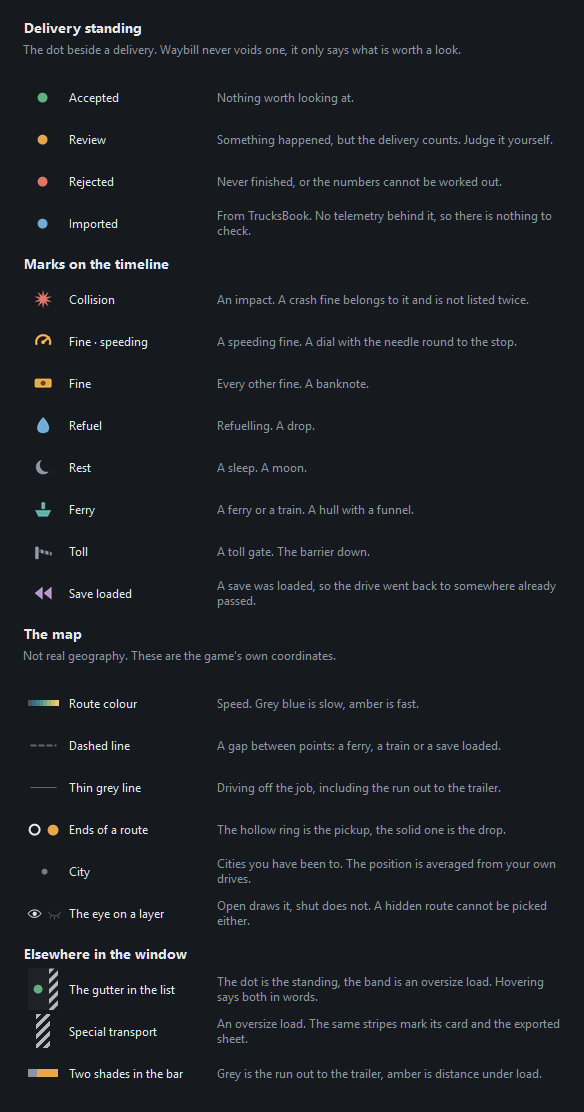
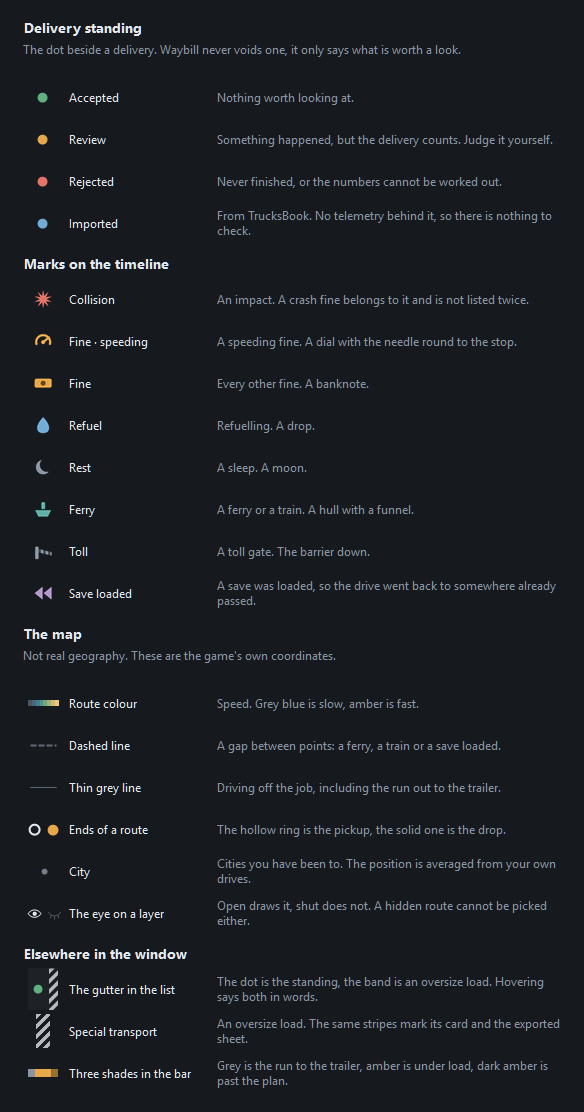
Write up the one page and retake what it changed
The README described five pages and an overview that no longer exists. It
describes four now, opening on the drive in progress, with the turning of the map
and the bar that rescales past the plan.

The screenshots go with it. `overview.png` is gone, `current-job.png` is the
merged page waiting for a game, which is the half of it that can be photographed
with the game closed. The other half gets photographed the next time there is a
delivery to photograph.

Changed region(s): [[0.3699, 0.9478, 0.9247, 0.9784], [0.1233, 0.9478, 0.3082, 0.9784]]

diff --git a/README.md b/README.md
@@ -69,7 +69,7 @@ Every state, flag and anomaly is listed with its meaning in
 
 ## Features
 
-* Opens on an overview: the drive in progress, the last few deliveries, settings
+* Opens on the drive in progress: the figures, the log, and the route as it grows
 * Detects the start and the end of a job with no manual input
 * Measures distance, fuel, speed, damage, fines, tolls and ferries
 * Records an event timeline, so the exact moment of a fine or a collision is kept
@@ -131,22 +131,30 @@ live in `%LOCALAPPDATA%\Waybill\`, independent of where the exe sits.
 Start order does not matter, the app connects to the game as soon as it finds it.
 Jobs are detected and saved without any input.
 
-Five pages down the left.
+Four pages down the left.
 
-*Overview* is where the window opens, and it is the only page that answers "what
-is going on" rather than a question you have to arrive with. It holds the drive
-in progress with its route drawn beside it as it goes, the last five deliveries,
-each opening its own card, and the three settings anybody actually reaches for.
-Nothing on it is new: everything has a page of its own, one click away, and the
-tracker's log stays on *Current job* where it belongs.
+*Current job* is where the window opens, and it is the only page that answers
+"what is going on" rather than a question you have to arrive with. The figures
+are on the left, the tracker's own log beside them, and the drive draws itself
+underneath as it goes. With no game running it offers the two things worth
+offering: starting one of the games, and the log that says whether the tracker
+can see it.
 
-![The page the window opens on](assets/overview.png)
+![The page the window opens on](assets/current-job.png)
 
-The miniature is the drive so far and nothing else: the hollow ring is where the
-load went on, the line is coloured by speed like every other route here, and the
-filled marker is where the truck is now. The bar underneath counts the loaded leg
-against the game's own planned distance, with the run out to the trailer in its
-own quieter shade at the head of it and named beside the figure.
+The map is the drive so far and nothing else: the hollow ring is where the load
+went on, the line is coloured by speed like every other route here, and the
+filled marker is where the truck is now. It turns the drive to lie along the
+panel, which is far wider than it is tall, so a run from north to south fills the
+width instead of drawing a thread down the middle. There is no north to lose:
+this is the game's own space and it was never oriented to anything, and the shape
+and the angles within the route are untouched.
+
+The bar underneath counts the loaded leg against the game's own planned distance,
+with the run out to the trailer in its own quieter shade at the head of it. It is
+not clamped at the plan. Going past it is ordinary, a detour or a closed road, so
+the bar rescales rather than filling up and stopping: at 112 % the plan sits nine
+tenths of the way along and the overshoot is what is left, in a dimmer amber.
 
 *Deliveries* is the history. Every row carries its verdict as a dot in the
 gutter on the left, and an oversize load carries hazard stripes beside it;
@@ -161,14 +169,6 @@ history is actually read with, and each is one click away from either answer.
 There is no filter by verdict: it is a dot on every row already, and on a
 history where almost everything is accepted, asking for "only the accepted ones"
 is asking for the list you are looking at.
-
-*Current job* is the same drive in the tracker's own terms: the route, the cargo,
-how far along the drive is, and a log of what has happened, each entry with its
-figure, so a fine reads `Fine: 700 $ (crash)` rather than just `Fined`. The log is
-the tracker narrating itself, which is what you want when the question is whether
-it is seeing the game at all, and is exactly what the overview leaves out.
-
-![The tracker's own view of the same drive](assets/current-job.png)
 
 Double clicking a delivery, or pressing Enter on it, opens its own card. It starts
 with why it got the verdict it did, then every figure the tracker kept.

diff --git a/assets/README.md b/assets/README.md
@@ -4,8 +4,7 @@
 |---|---|
 | `logo.png` | Full resolution logo (700x700). Source for the application icon. |
 | `logo.psd` | Layered source file for editing the logo. |
-| `overview.png` | The page the window opens on, during a delivery. |
-| `current-job.png` | The tracker's own view of the same drive, log and all. |
+| `current-job.png` | The page the window opens on, waiting for a game. |
 | `deliveries.png` | The delivery history, used at the top of the README. |
 | `delivery-card.png` | One delivery on its own card. |
 | `delivery-route.png` | The same card with the route, the height profile and the timeline slid out. |
@@ -34,12 +33,11 @@ moving one around the README does not leave the name lying.
 They are captured from a real database rather than staged, which is why the
 figures in them are ordinary rather than tidy.
 
-`overview.png` and `current-job.png` are the two exceptions to being taken by the
-script, because they are the two pages that have nothing to show unless a delivery
-is actually running. Both were captured by hand during one, on the way from
-Stockton to Cedar City, at whatever size the window happened to be and scaled down
-to match the others. Faking them with the game closed would have got two pages
-saying "waiting for the game" across the part that matters.
+`current-job.png` shows the page with no game running, which is half of what it
+does: the two launch buttons, the log, and an empty map. The other half, a
+delivery actually under way, wants a delivery actually under way, so it gets
+photographed the next time there is one. Faking it with the game closed is not
+worth the picture.
 
 There is no shot of the route drawing itself. It is a couple of seconds of
 movement, and a still frame of it is a picture of half a route, which reads as a

diff --git a/docs/roadmap.md b/docs/roadmap.md
@@ -367,8 +367,9 @@ rather than only tested.
 - Which market a job came from, and whether the trailer was the driver's own
 - Driving between jobs kept as well, counted apart from the deliveries and drawn
   in a quieter line, so the map fills in without the totals being flattered
-- An overview the window opens on, which is the only page that answers what is
-  going on rather than a question the reader has to arrive with
+- One page for the drive in progress, which is the only one that answers what is
+  going on rather than a question the reader has to arrive with, and which turns
+  the map to lie along the panel so a route running north to south still fills it
 - A delivery's route drawn the way it was driven rather than all at once, which
   is route replay from Phase 3 in the only form the data supports: from above,
   along the line, at the pace the drive actually went
